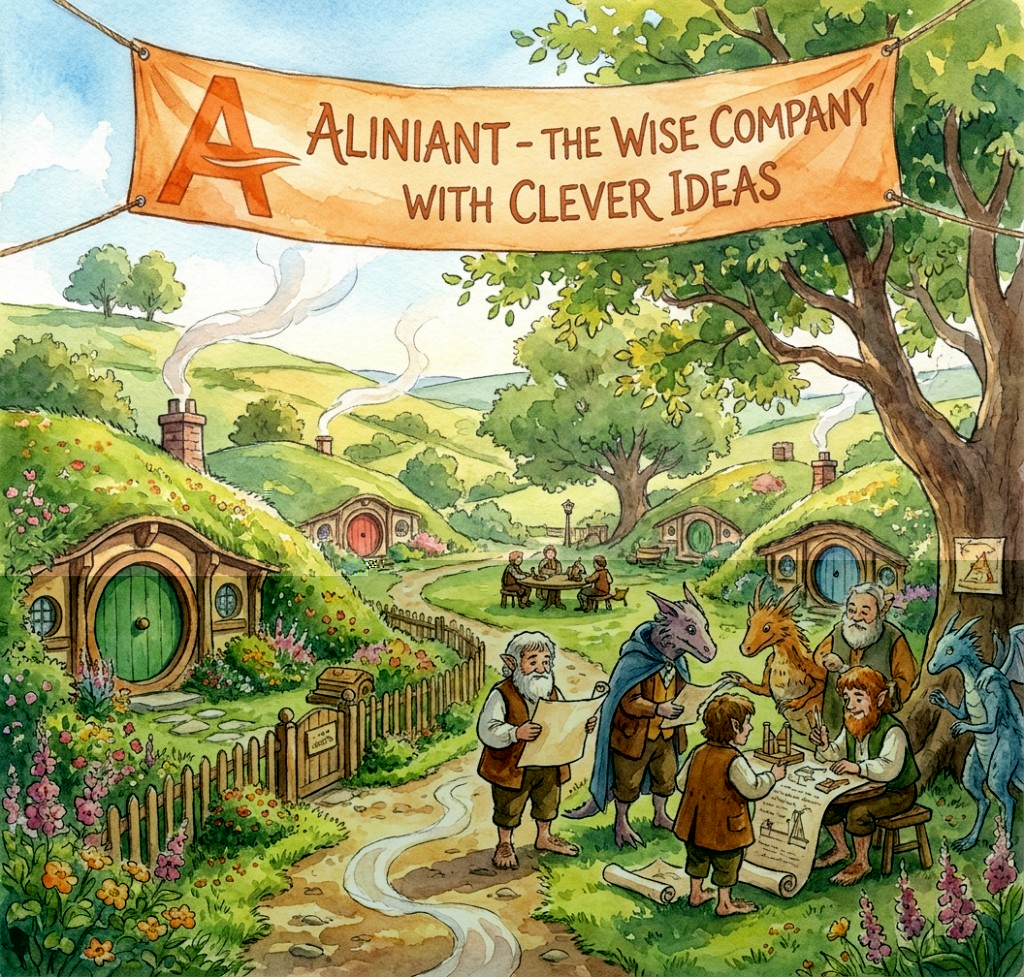
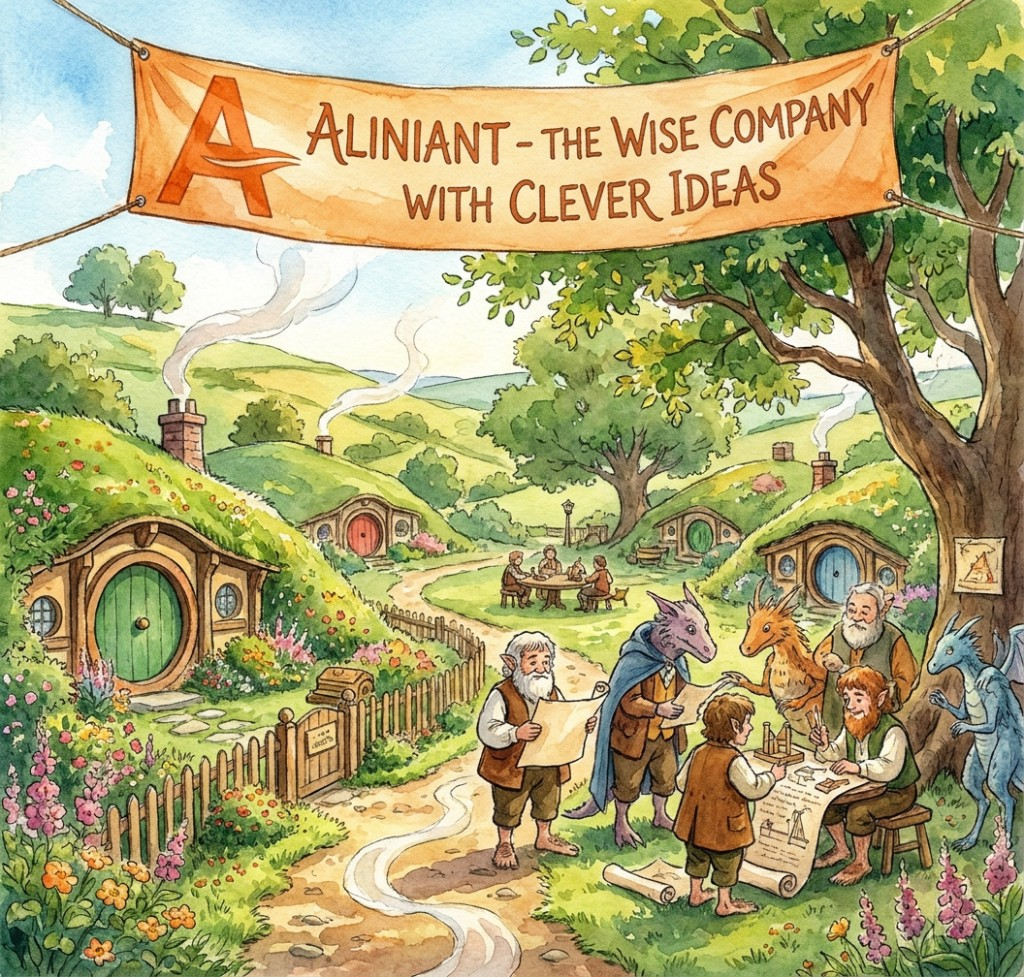
Store cloud/ images as binary so eol=lf no longer corrupts them
Re-stages the holding page JPEG and favicon; committed blobs now match disk. BUG-021. 1.5.8.

diff --git a/geofooter/version.py b/geofooter/version.py
@@ -17,10 +17,10 @@ SemVer (MAJOR.MINOR.PATCH) — almost everything is a PATCH:
 from __future__ import annotations
 
 # Semver: MAJOR.MINOR.PATCH
-VERSION = "1.5.7"
-VERSION_TUPLE = (1, 5, 7)
+VERSION = "1.5.8"
+VERSION_TUPLE = (1, 5, 8)
 # Local release / build timestamp for this VERSION (YYYY-MM-DD HH:MM)
-VERSION_STAMP = "2026-10-20 21:45"
+VERSION_STAMP = "2026-10-20 21:50"
 
 APP_NAME = "GURI"
 APP_FULL_NAME = "GURI - Aliniant Smart Ass Email"
@@ -34,6 +34,11 @@ COPYRIGHT_YEAR = "2026"
 # Short release notes for the About tab (newest first).
 # Each entry: (version, timestamp, notes)
 RELEASE_NOTES = (
+    (
+        "1.5.8",
+        "2026-10-20 21:50",
+        "Holding-page images are stored intact in the repository.",
+    ),
     (
         "1.5.7",
         "2026-10-20 21:45",

diff --git a/WORKLOG.md b/WORKLOG.md
@@ -13,6 +13,11 @@ Append an entry **whenever meaningful code or project-doc changes are made**. Ne
 
 ---
 
+### 2026-10-20 — 1.5.8: Keep cloud/ images binary in git
+
+- `.gitattributes`: `cloud/**/*.jpg`, `*.png` and `*.ico` are marked `binary`, after the `cloud/** text eol=lf` rule. The holding page's JPEG and favicon were re-staged, and their blobs now match the files on disk. BUG-021.
+- Why: the LF rule from 1.5.4 rewrote CRLF bytes inside both images in the 1.5.7 commit. The server copies were fine (copied from the working tree).
+
 ### 2026-10-20 — 1.5.7: aliniant.net holding page
 
 - New `cloud/site/aliniant.net/`: `index.html` (centred image, fits any screen), `aliniant-shire.jpg` (the operator's watercolour, 1024x977, 401 KB, no EXIF), `favicon.ico` (16/32/48 px from `assets/brand/abyitself.ico`, 4.7 KB), stage-1/2 nginx files, and `deploy.sh` (same rules as the pixel: installs only missing packages, enabled as `zz-aliniant-net`, `nginx -t` + graceful reload). Stage 2: www and HTTP redirect to `https://aliniant.net`, CSP `default-src 'none'`, nosniff, no-referrer, 20 r/s per IP, and everything except `/`, the image and the favicon returns 404.

diff --git a/docs/bug_tracker.md b/docs/bug_tracker.md
@@ -213,6 +213,16 @@ Use this for **bugs and regressions**, not day-to-day build notes (`WORKLOG.md`)
 
 ## Closed
 
+### BUG-021 — Images under cloud/ were corrupted in git by the eol=lf rule
+
+- **Severity:** S3
+- **Area:** repo
+- **Status:** fixed
+- **Reported:** 2026-10-20
+- **Summary:** 1.5.4 added `cloud/** text eol=lf` to `.gitattributes` so bash and systemd files keep LF. It also forced the text filter onto binary files, so committing `cloud/site/aliniant.net/aliniant-shire.jpg` and `favicon.ico` in 1.5.7 (`361bd27`) rewrote their CRLF byte pairs. The blobs in the repo no longer matched the files (git warned "CRLF will be replaced by LF"). The deployed copies were not affected, because they were copied from the working tree.
+- **Repro:** `git hash-object --no-filters <file>` vs `git rev-parse HEAD:<file>` differed for both files.
+- **Fixed in:** 1.5.8. `cloud/**/*.jpg|png|ico binary` comes after the LF rule, and both files were re-staged; the blobs now match the files on disk.
+
 ### BUG-020 — Pixel nginx site could have taken over i-txone.com's catch-all traffic
 
 - **Severity:** S2

diff --git a/CHANGELOG.md b/CHANGELOG.md
@@ -20,6 +20,12 @@ e.g. `Fix Create-GURI silent insert failure for long document paths`.
 
 ## [Unreleased]
 
+## [1.5.8] — 2026-10-20
+
+### Fixed
+
+- Images under `cloud/` are stored as binary in git. The `cloud/** eol=lf` rule had altered the holding page's JPEG and favicon when they were committed (BUG-021).
+
 ## [1.5.7] — 2026-10-20
 
 ### Added
